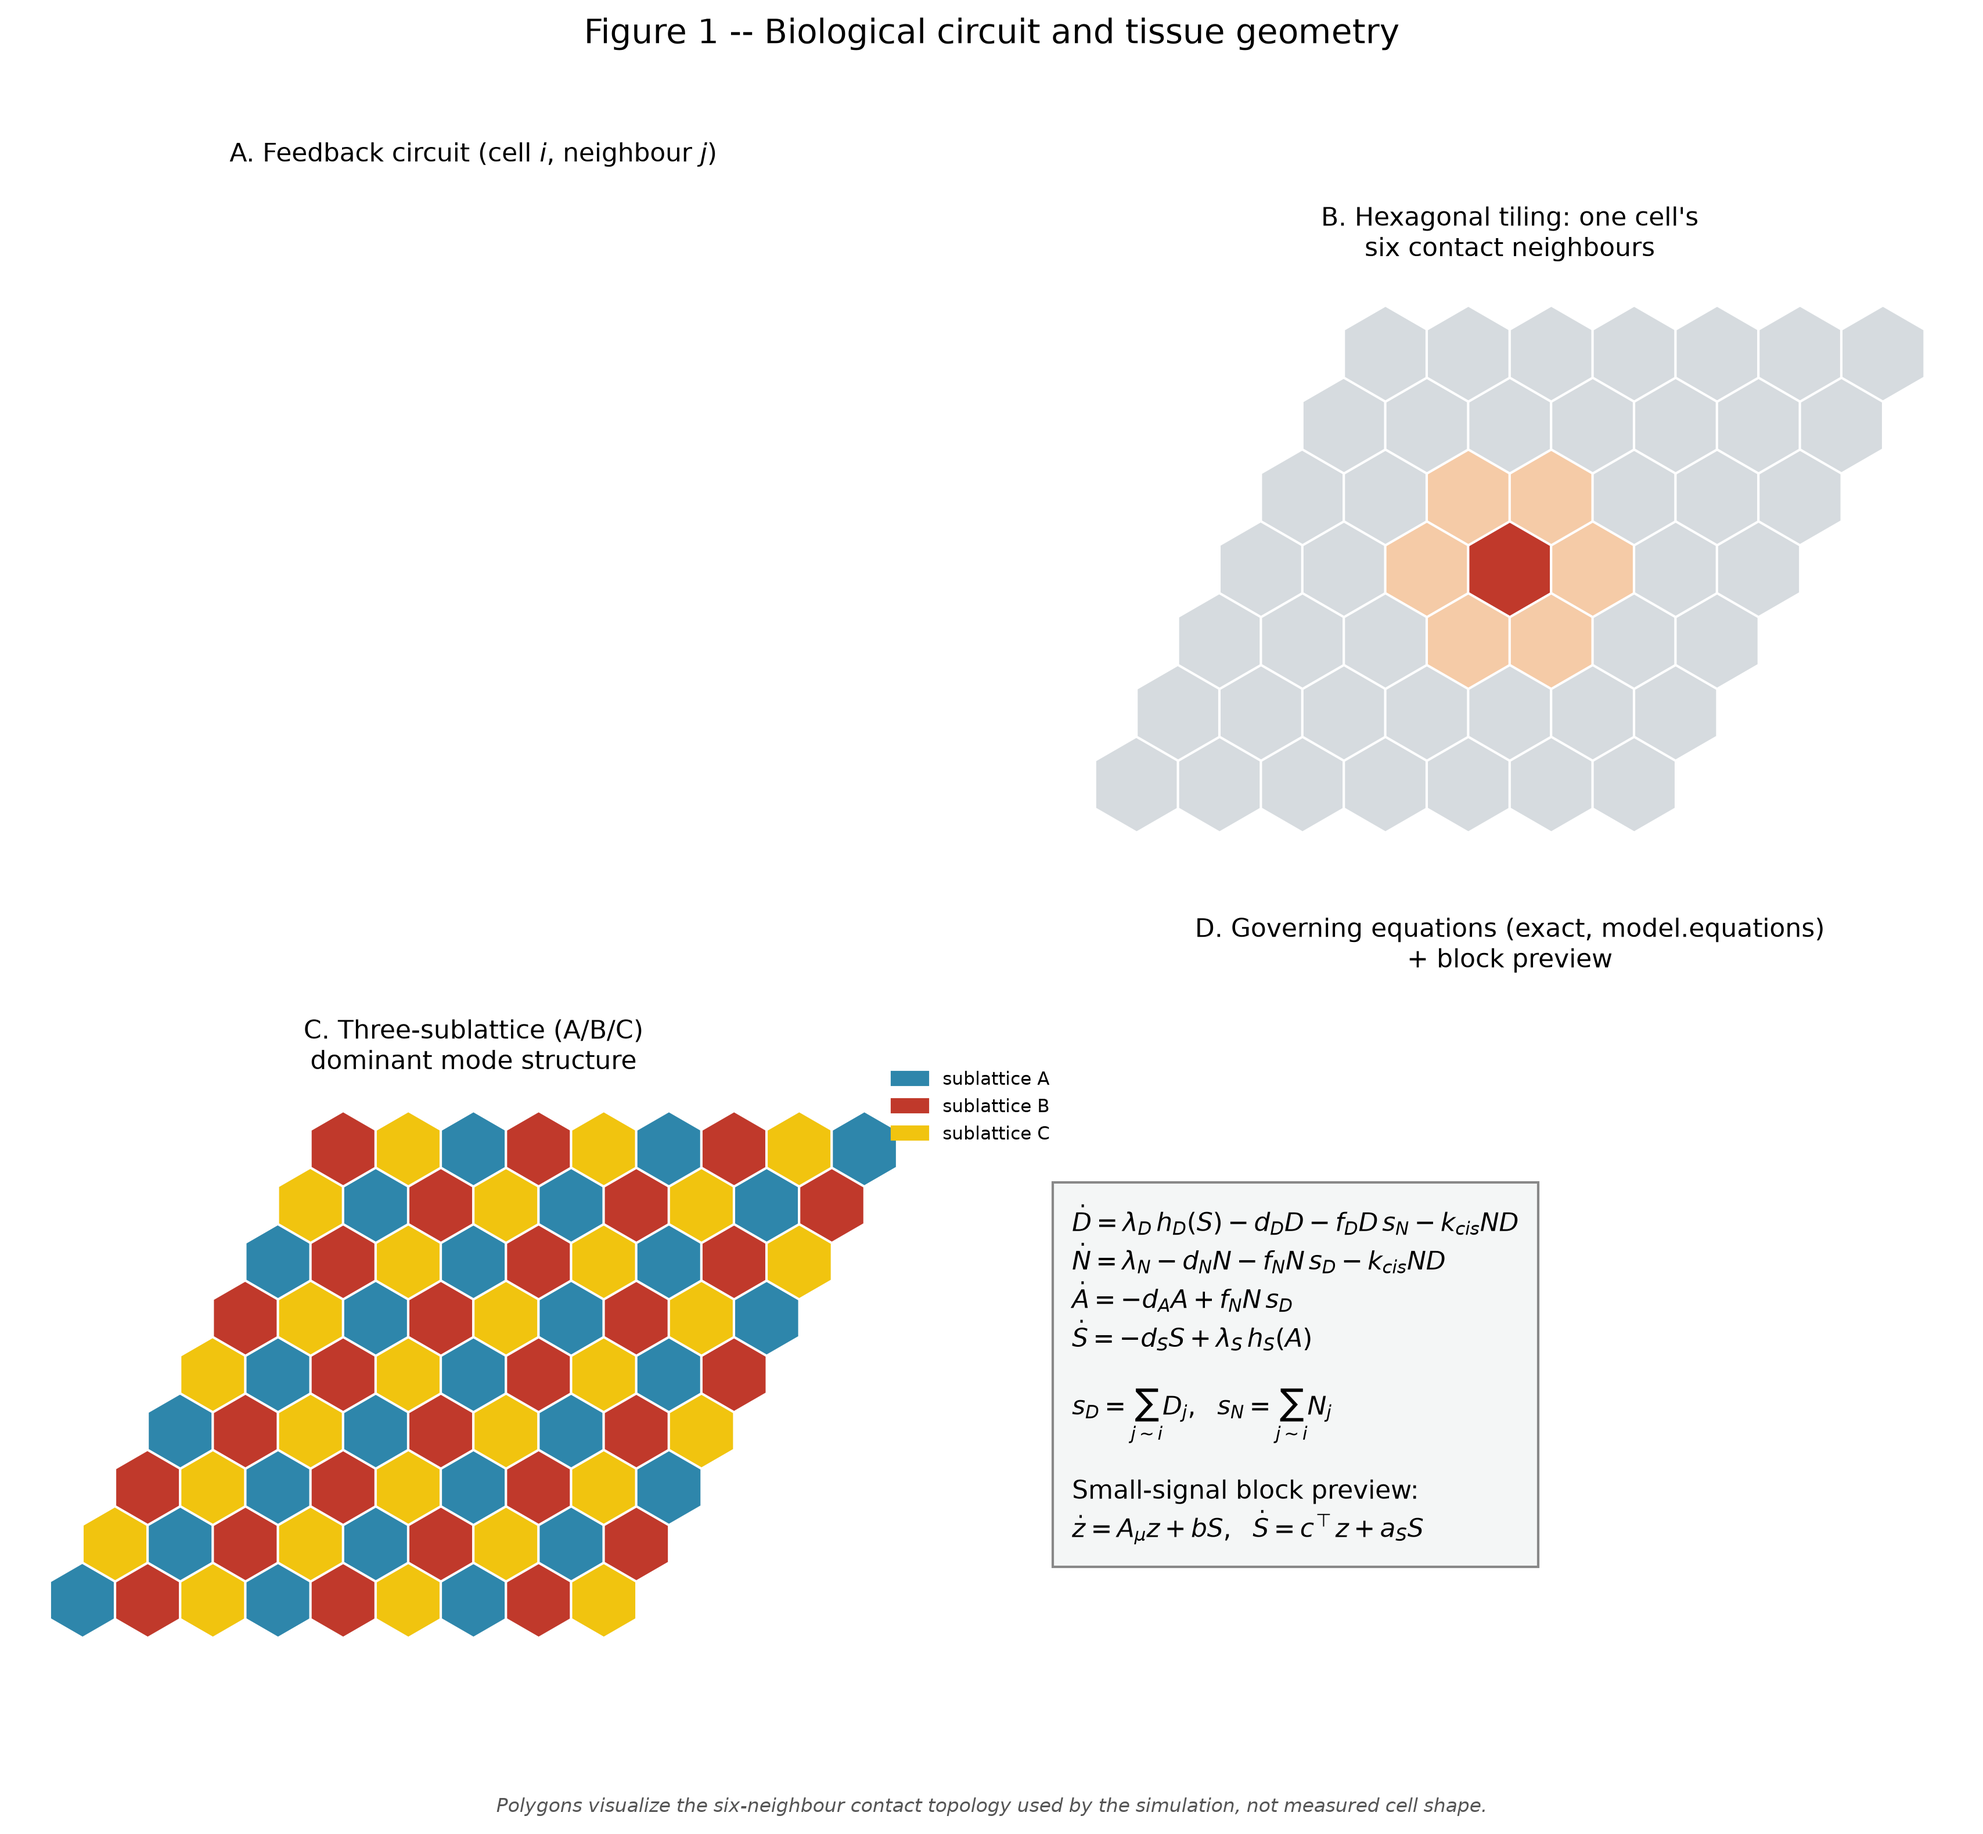
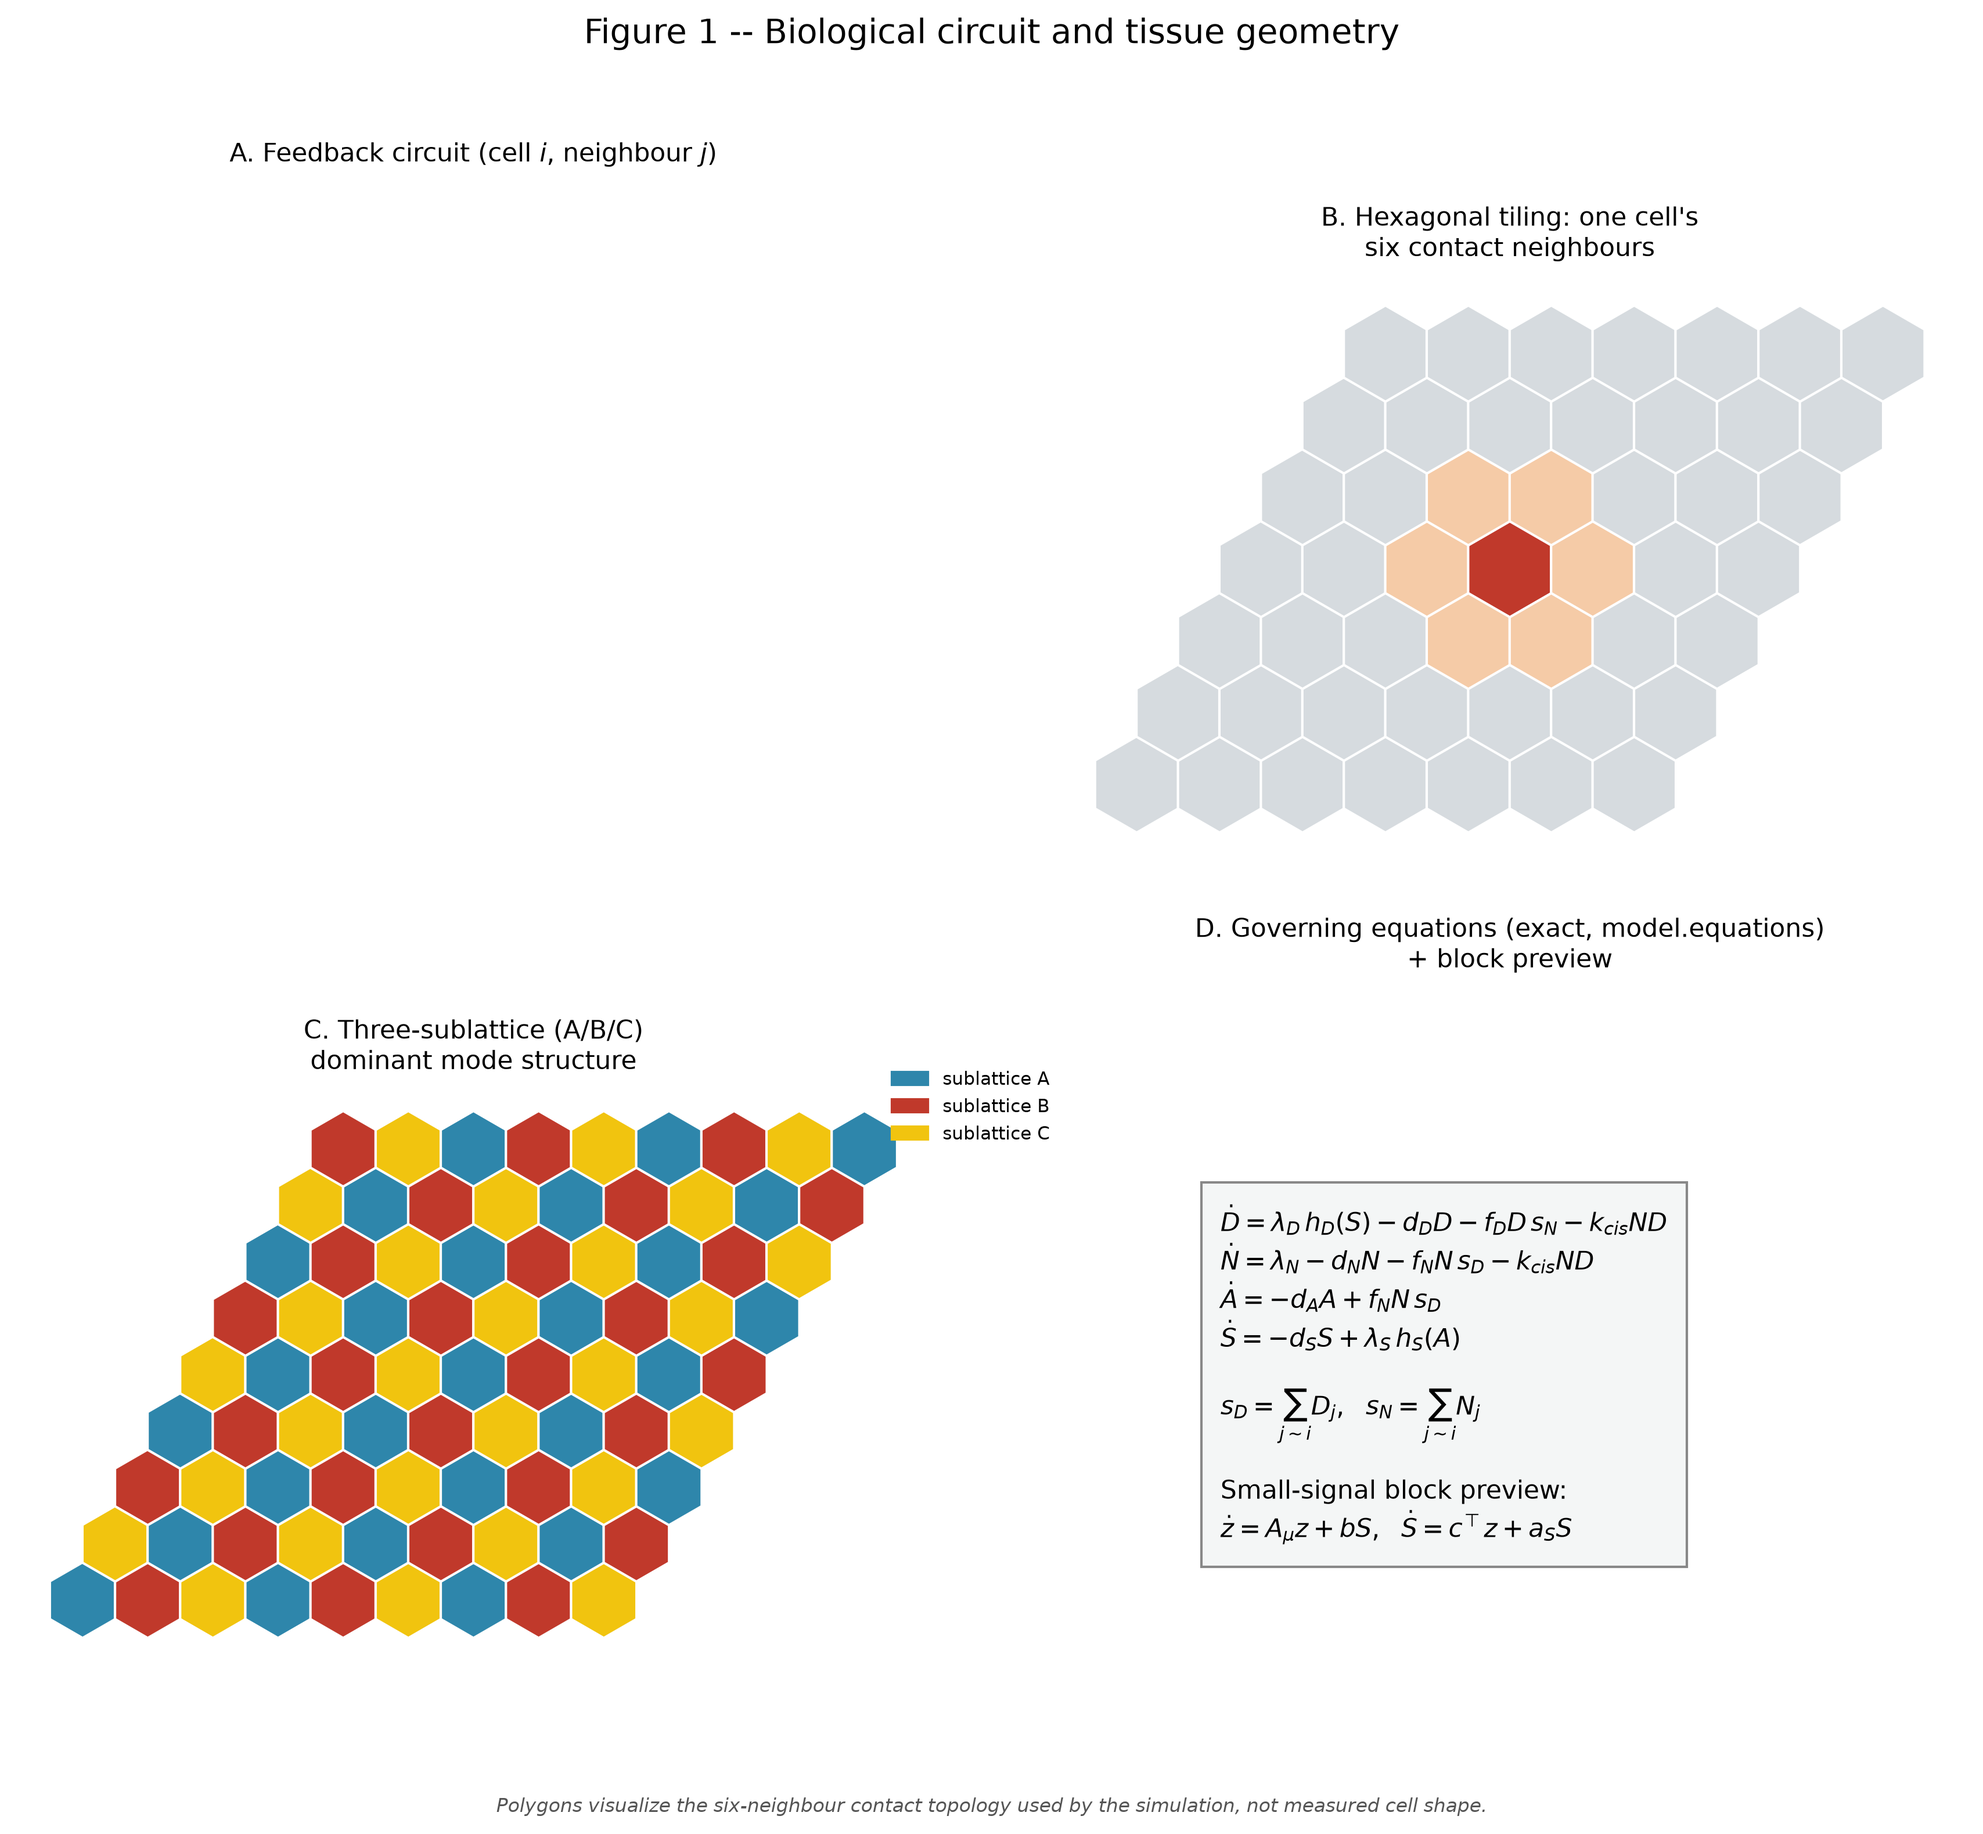
Centre Fig1 panel D equation box under its title

diff --git a/figures/plot_fig1.py b/figures/plot_fig1.py
@@ -79,9 +79,15 @@ def panel_D(ax):
         "Small-signal block preview:\n"
         r"$\dot z = A_\mu z + bS,\ \ \dot S = c^{\!\top}z + a_S S$"
     )
-    ax.text(0.02, 0.5, text, ha="left", va="center", fontsize=10.5, transform=ax.transAxes,
-           bbox=dict(fc="#F4F6F6", ec="#888", pad=8))
+    txt = ax.text(0.02, 0.5, text, ha="left", va="center", fontsize=10.5, transform=ax.transAxes,
+                 bbox=dict(fc="#F4F6F6", ec="#888", pad=8))
     ax.set_title("D. Governing equations (exact, model.equations)\n+ block preview", fontsize=10.5)
+    # Equation lines stay left-aligned relative to each other, but the block
+    # as a whole is re-centred under the "D" title (its width isn't known
+    # until after a render pass).
+    ax.figure.canvas.draw()
+    bbox_axes = txt.get_window_extent(renderer=ax.figure.canvas.get_renderer()).transformed(ax.transAxes.inverted())
+    txt.set_x(0.5 - (bbox_axes.x1 - bbox_axes.x0) / 2)
 
 
 def main():
